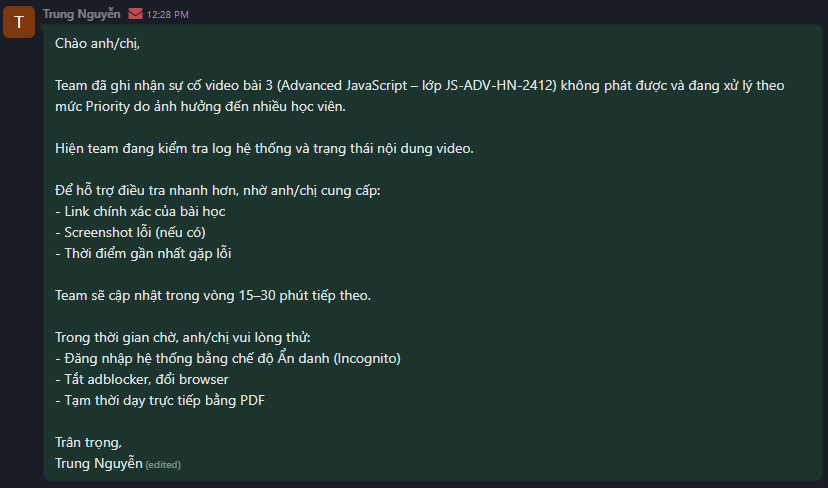
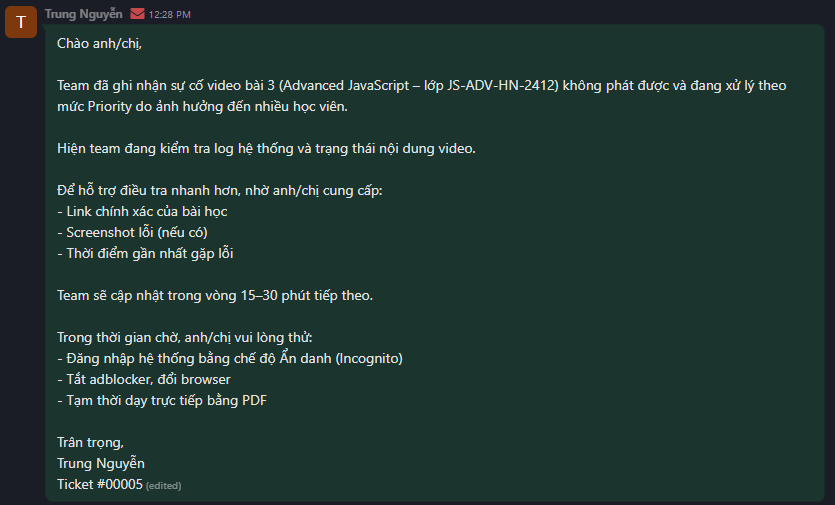
docs: update screenshots and week 3 scenario 05 documentation

diff --git a/week3/scenario-05-multi-user/scenario-05-doc.md b/week3/scenario-05-multi-user/scenario-05-doc.md
@@ -177,5 +177,5 @@ Recommendation:
 
 ## Odoo Ticket Link
 
-[View Master Ticket #00005 on Odoo](https://mindx4.odoo.com/)
+[View Master Ticket #00005 on Odoo](https://mindx4.odoo.com/mail/view?model=helpdesk.ticket&res_id=5&access_token=7a7ab35c-bd5b-40a8-a78d-945292b1f815)
 
